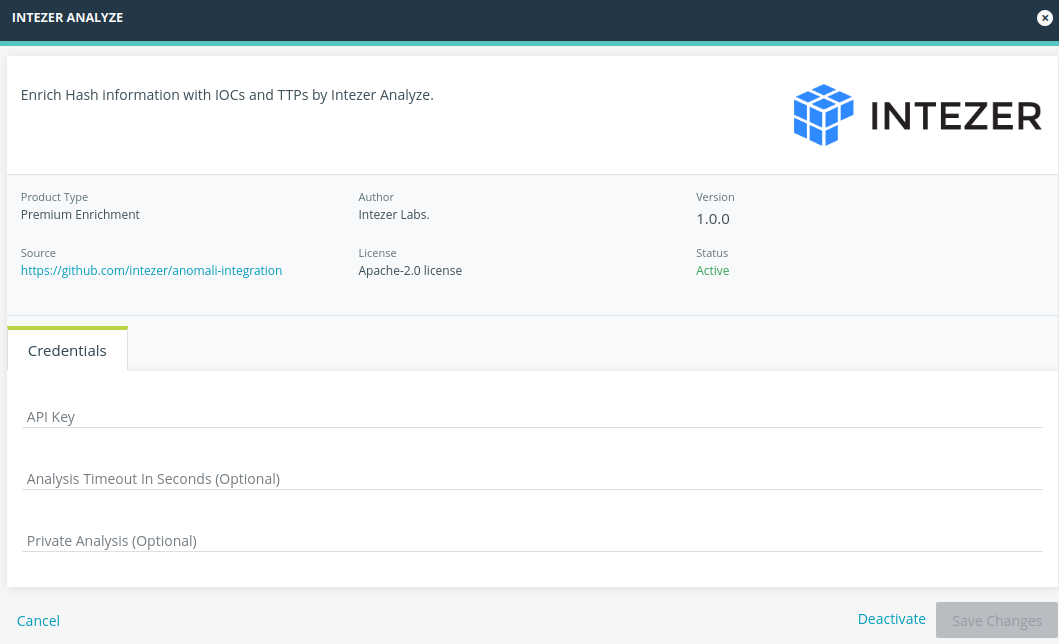
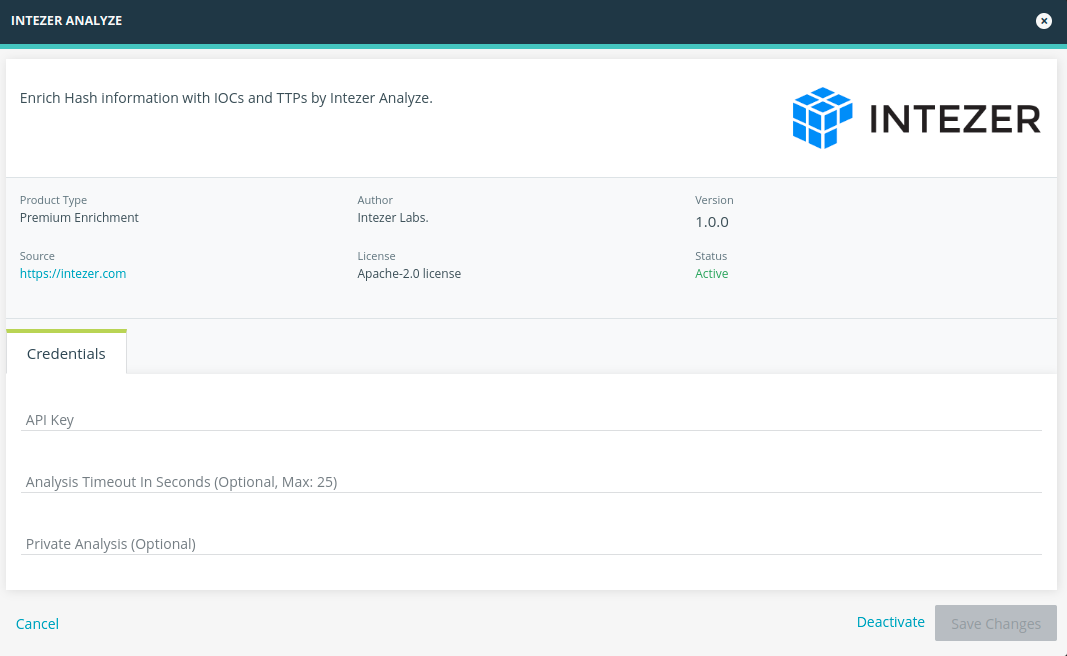
fix: rename signatures to TTPs and update the docs

diff --git a/styles.css b/styles.css
@@ -5,3 +5,8 @@
 #readme {
     border-width: 0 !important;
 }
+
+html *
+{
+    font-family: "Open Sans", Calibri, Candara, Arial, sans-serif; /*For some reason weasyprint messes the numbers*/
+}

diff --git a/package/source/intezer_anomali_enrichment.py b/package/source/intezer_anomali_enrichment.py
@@ -99,7 +99,7 @@ def enrich_hash(ae: AnomaliEnrichment, hash_value: str, wait_timeout: datetime.t
             ae.addWidget(files_iocs_table_widget)
 
     if file_analysis.dynamic_ttps:
-        ttps_table_widget = TableWidget('Signatures',
+        ttps_table_widget = TableWidget('TTPs',
                                         ['MITRE ATT&CK', 'Technique', 'Severity', 'Details'],
                                         columnWidths=['35%', '30%', '5%', '30%'])
         for ttp in sorted(file_analysis.dynamic_ttps, key=lambda t: t['severity'], reverse=True):

diff --git a/README.md b/README.md
@@ -1,19 +1,19 @@
 # Intezer Anomali Integration
-[Intezer Analyze](https://analyze.intezer.com) integration with anomali provide hash enrichment.
+The [Intezer Analyze](https://analyze.intezer.com) integration with Anomali provides enrichment data for hash observables.
 
 ## How does it work?
-The integration will take the hash and query it in Intezer Analyze for the last analysis. 
+The integration will take the hash and query it in Intezer Analyze for the latest analysis. 
 If an analysis is not found, the integration will try and analyze the hash in case the file is available in Intezer Analyze.
 
 ## Setup
 To activate the Intezer Analyze enrichment:
 1. Log in to the ThreatStream user interface.
-2. In the top navigation bar, click the App Store.
+2. Navigate to APP Store > APP Store.
 3. Search for Intezer Analyze, and click "Get Access".
 4. Click "I have already registered" and enter your Intezer API Key found in [account details](https://analyze.intezer.com/account-details).
 5. Configure additional parameters:
-   * Timeout waiting for an analysis to finish in seconds (optional, max is 25), the default is to wait 25 seconds.
-   * Should the querying of the latest analysis only return private analysis, default is false. 
+   * Analysis Timeout in Seconds: Timeout waiting for an analysis to finish in seconds (optional, max is 25), the default is to wait 25 seconds.
+   * Private Analysis: Should the querying of the latest analysis only return private analysis, default is false. 
    Use this to avoid consuming quota everytime you query a hash.
 6. If errors occur, contact support@intezer.com for assistance.
 
@@ -22,15 +22,39 @@ To activate the Intezer Analyze enrichment:
 ## Integration Capabilities
 The integration will show Intezer verdict and analysis details first:
 ![Analysis details](.artwork/analysis_details.png)
+Fields description:
+* **Analysis Id**: A unique identifier assigned to the results of this analysis.
+* **Analysis Time**: The date that the analysis was executed.
+* **Analysis Url**: A link to a web page in the Intezer Analyze web interface.
+* **Family Name**: The name of the family of this file. For example, WannaCry, Lazarus, Magic Hound or zlib.
+* **Family Id**: A uuid identifier of the family.
+* **Labels**: Labels set to this file, either ones set by Intezer, or ones set by the user.
+* **Is Private**: Specifies that the genes of this analyzed file also run against your private Genome Database.
+* **Sha256**: The SHA256 Hash of the file.
+* **Verdict**: The result of the analysis. For example, Malicious, Trusted, Unknown or Suspicious.
+* **Sub Verdict**: Additional details about the verdict.
 
 ### Network IOCs 
+Network indicators are composed of IPs, domains and URLs collected during the analysis from multiple different sources. These include addresses that were contacted during dynamic execution and addresses that were extracted from an embedded malware configuration.
 ![Network IOCs](.artwork/network_iocs.png)
 
+Notable columns:
+* **Source Type**: specifies where each indicator was retrieved from.
+* **Classification**: The verdict and, if relevant, the malware family known to be associated with this address.
+
+
 ### Files IOCs 
+File indicators are SHA256 hashes of files collected during the analysis from various sources such as static unpacking and collected dropped files. The classification shown is the one that was assigned to each file from genetic analysis.
 ![Files IOCs](.artwork/files_iocs.png)
 
-### Signatures 
-![Signatures](.artwork/signatures.png)
+### TTPs 
+Tactics, Techniques, and Procedures (TTPs) allows analysts to understand how the analyzed file operates, and the possible risk posed by it.
+The TTPs feature expands the static analysis context by focusing on the actual actions performed during dynamic execution.
+![Signatures](.artwork/ttps.png)
+Notable columns:
+* **MITRE ATT&CT**: [MITRE ATT&CK](https://attack.mitre.org/) Technique Detection name.
+* **Technique**: The technique seen in the dynamic execution.
+* **Details**: more details on each TTP, including process information, URLs and more. 
 
 ## Integration Details 
 ### Supported entities
